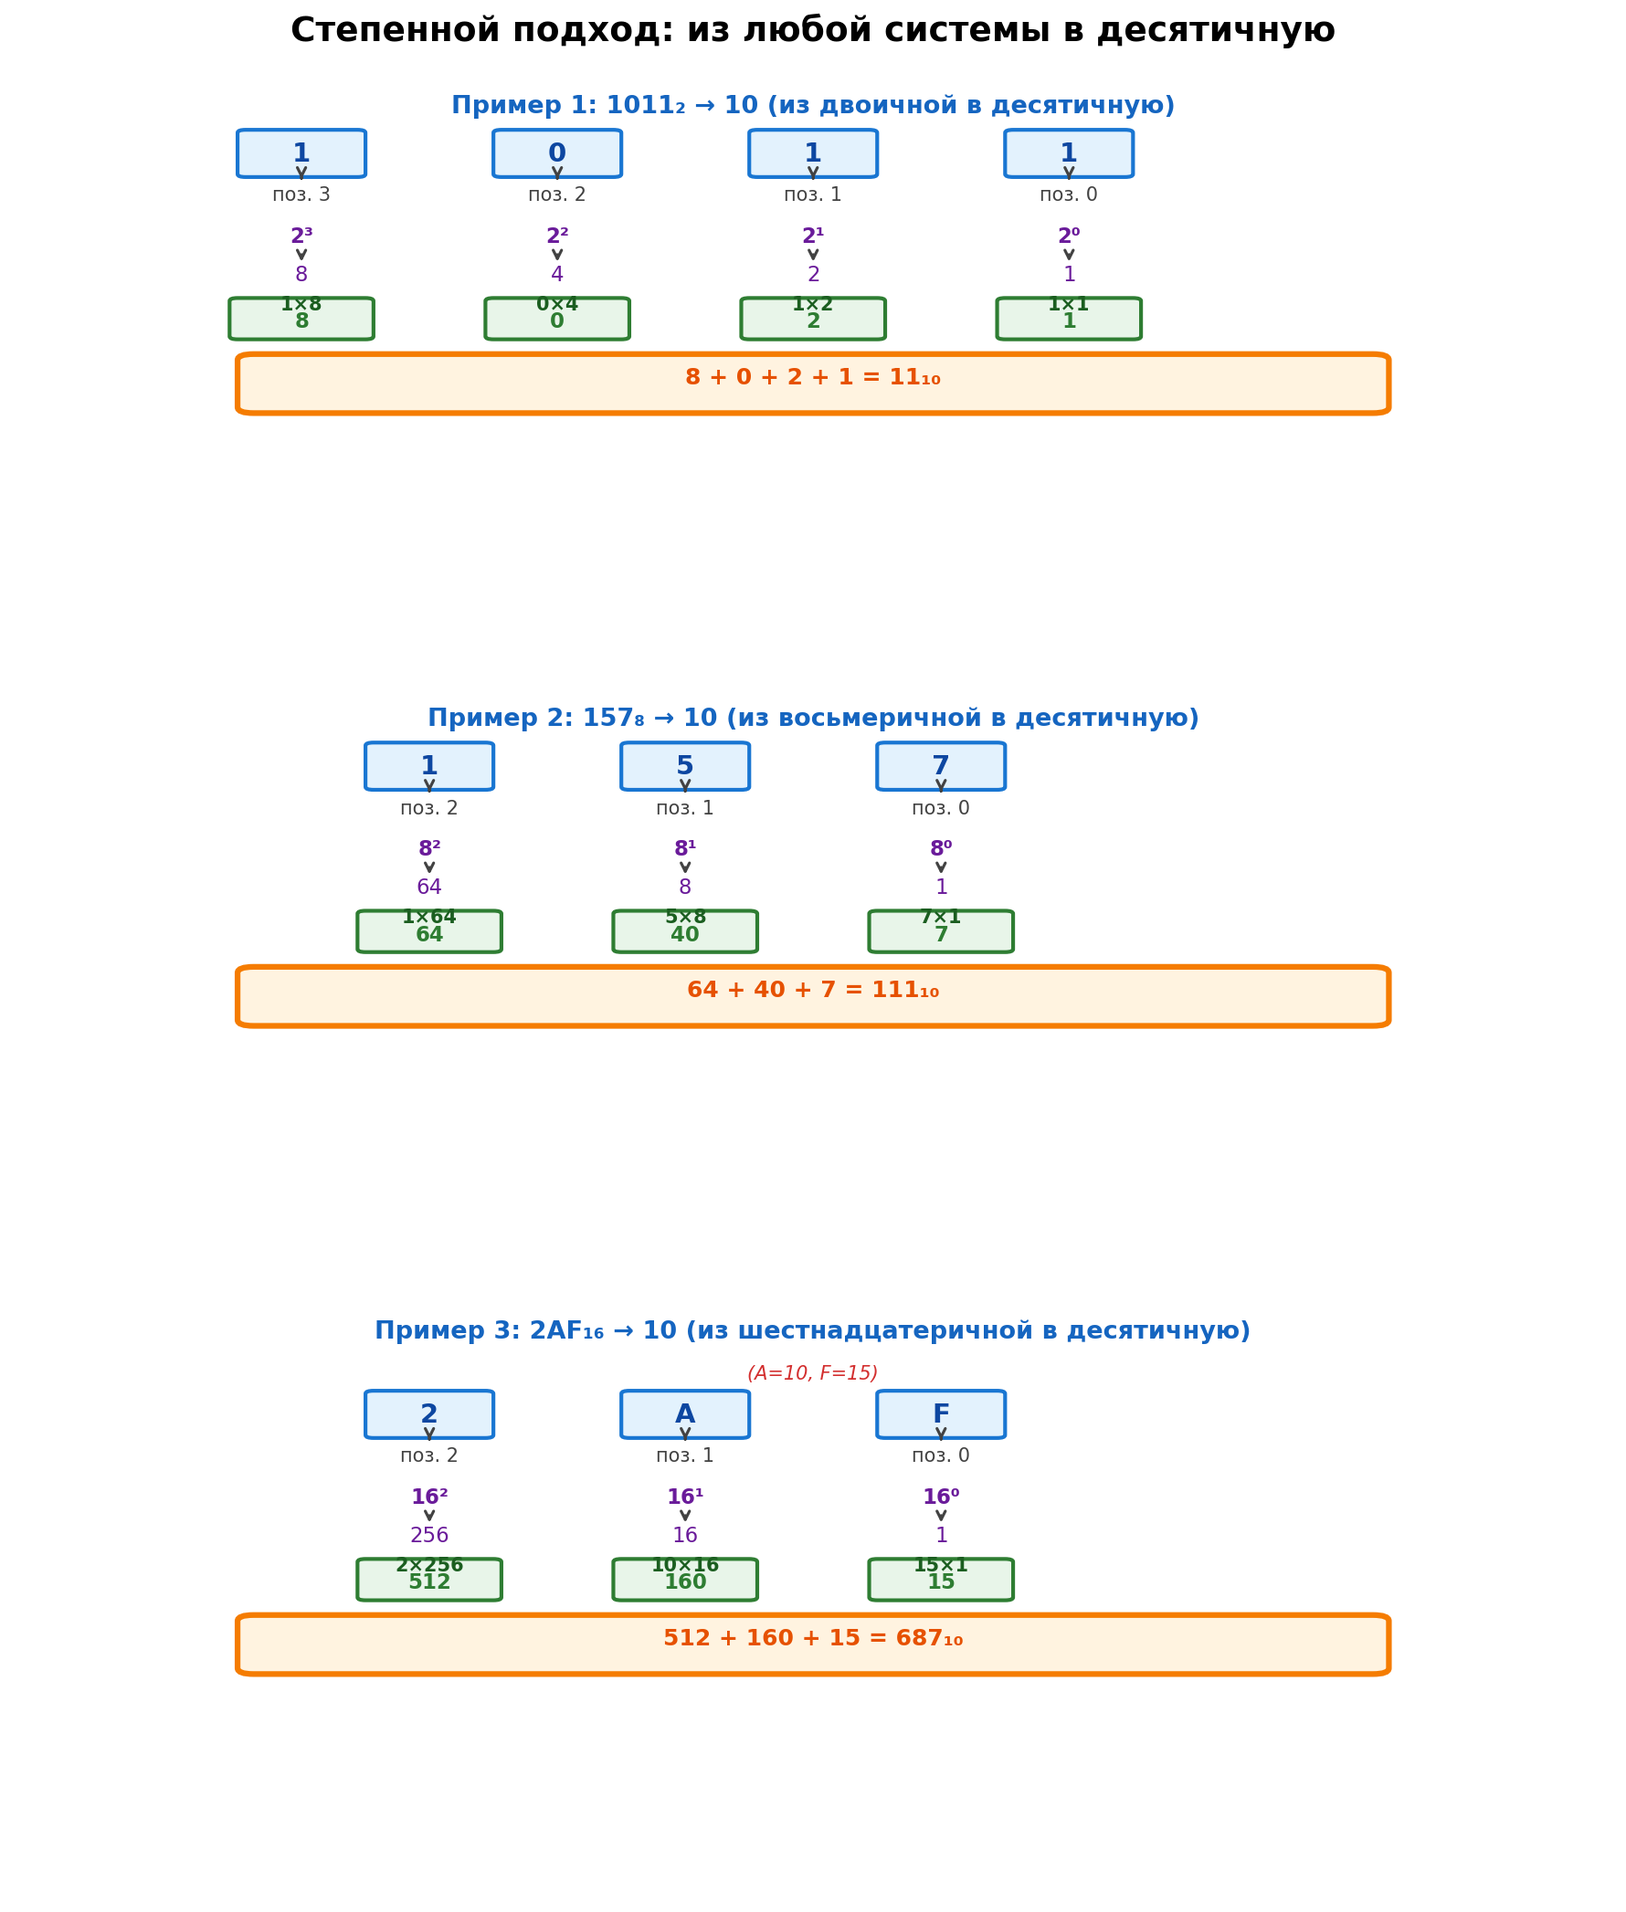
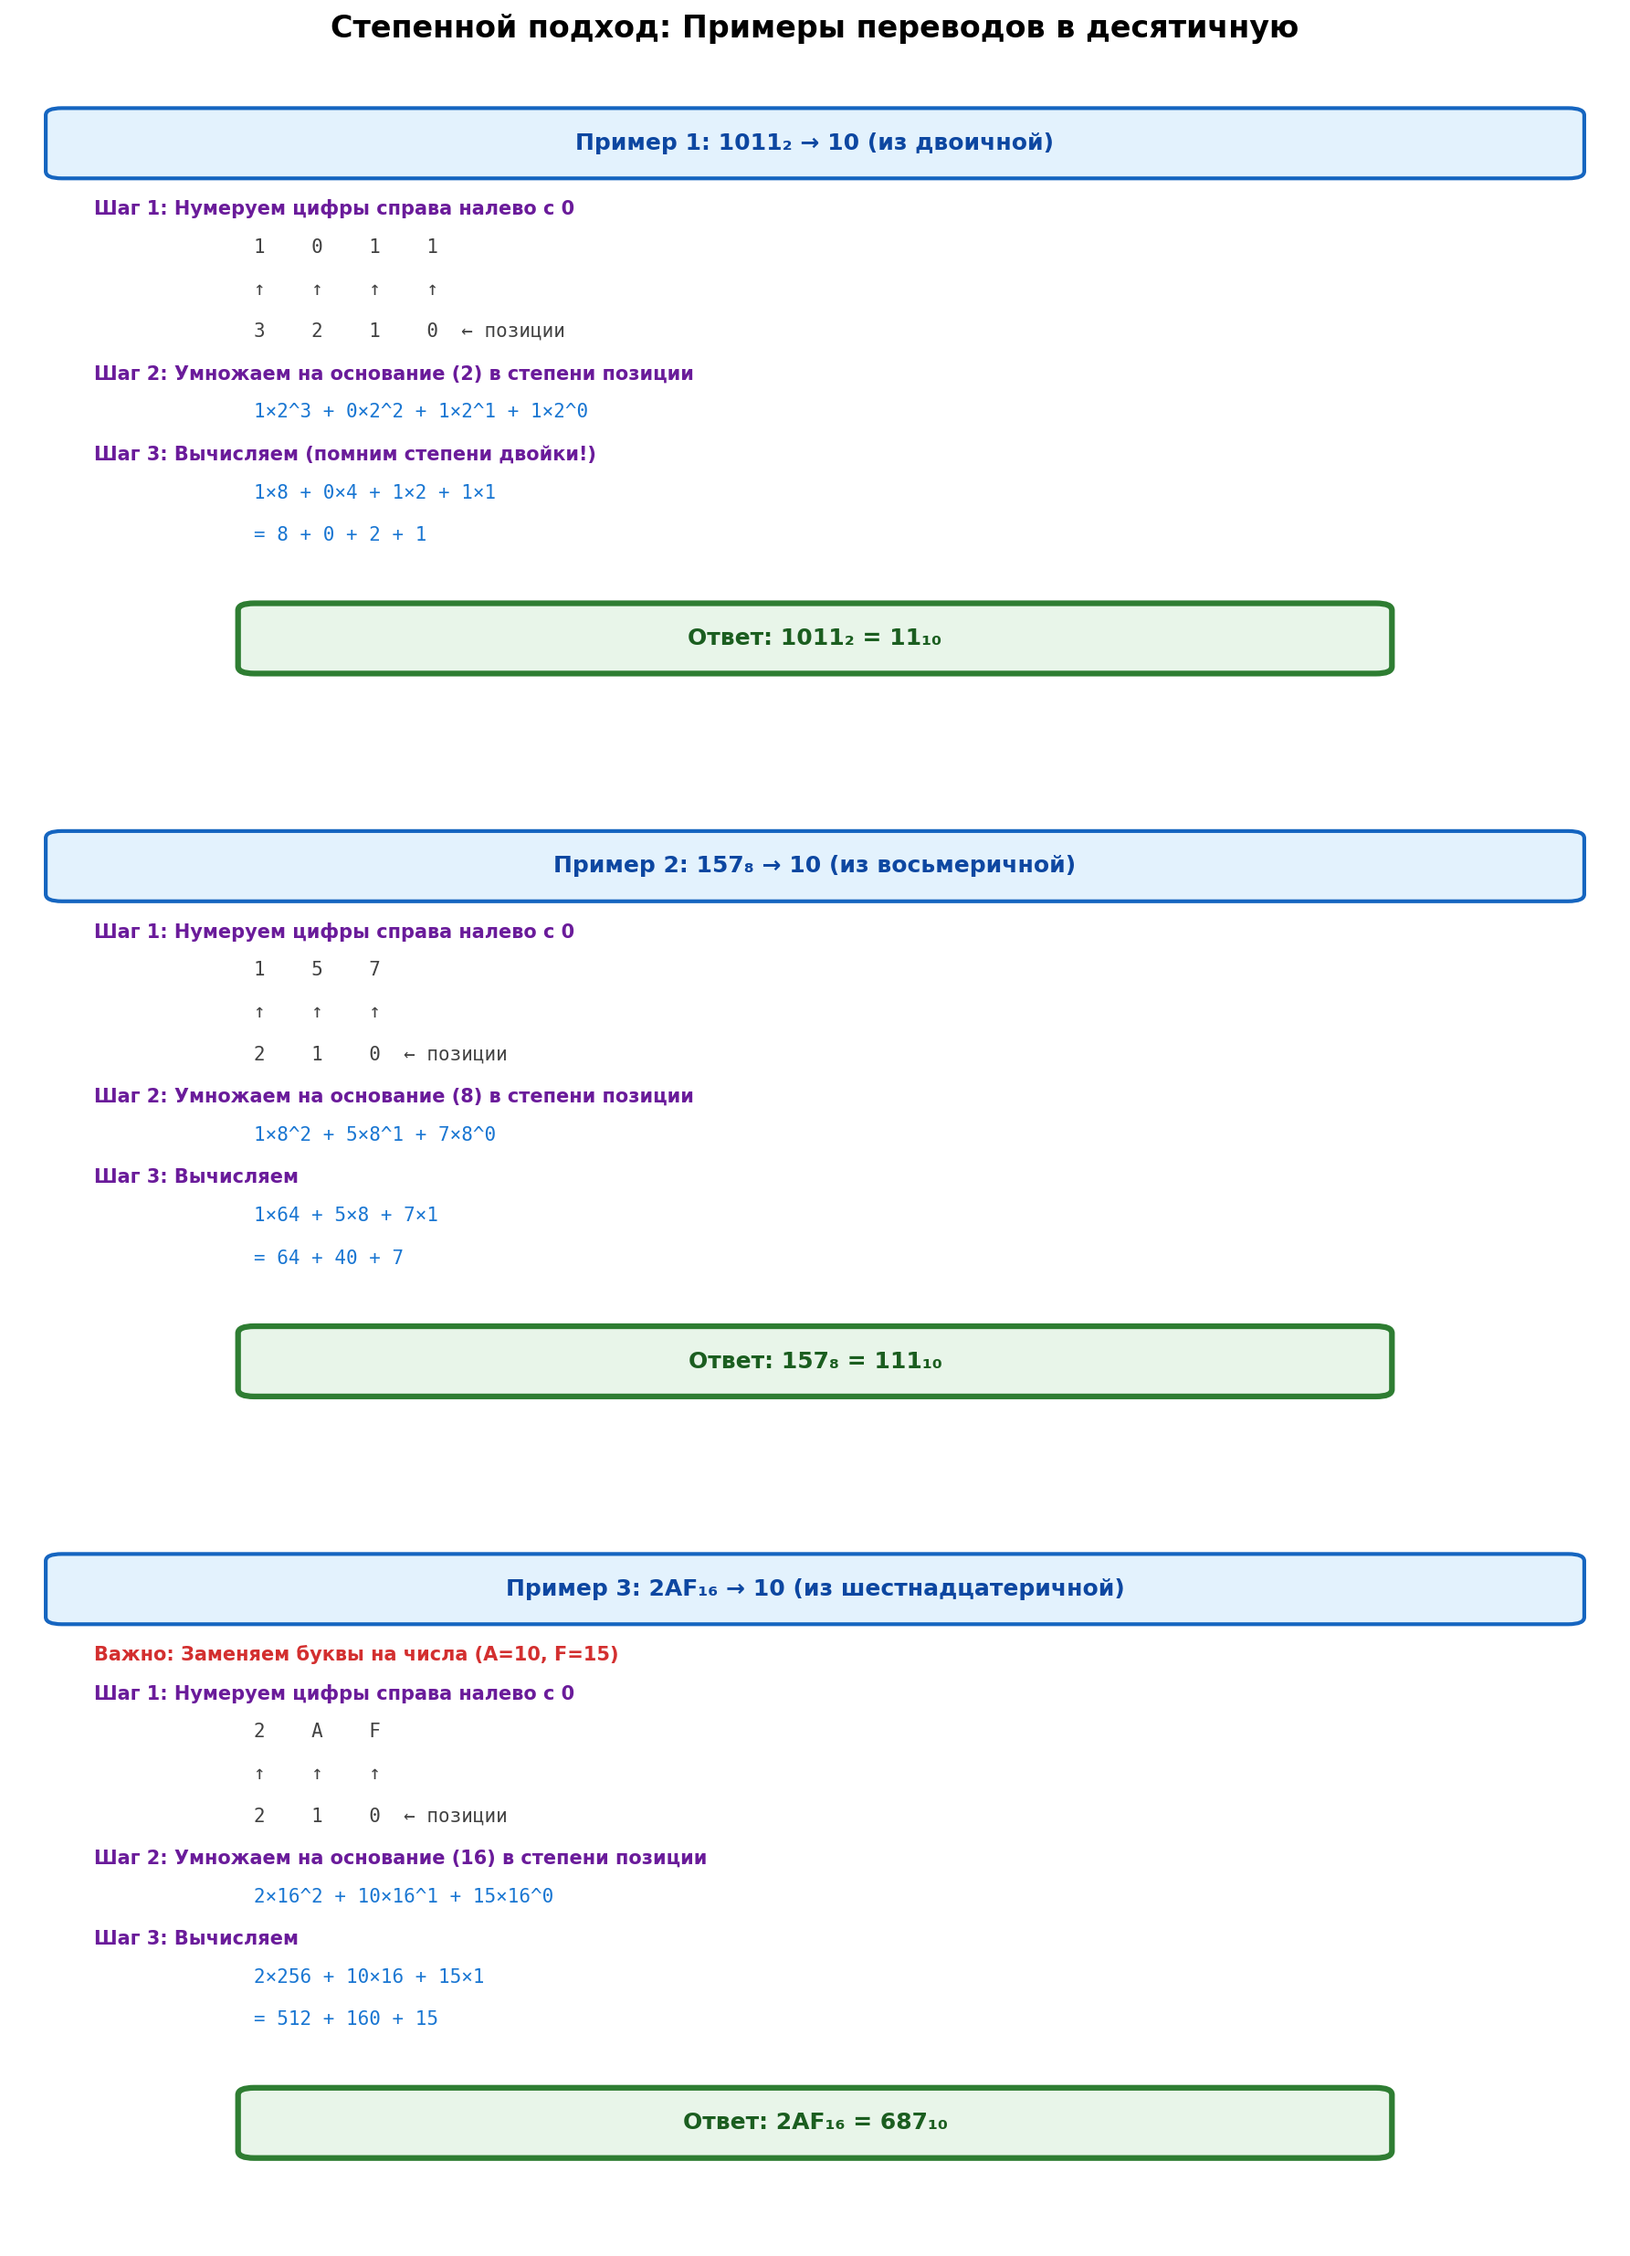
фикс визуалов, важные уточнения

diff --git a/системы_счисления.md b/системы_счисления.md
@@ -89,6 +89,8 @@ A = 10    B = 11    C = 12    D = 13    E = 14    F = 15
 
 ## Методы перевода чисел
 
+> **⭐ Важное замечание:** Если вы освоите "лайфхаки" (быстрые методы), вам практически никогда не придётся использовать самый трудоёмкий метод — "Деление с остатком". Старайтесь всегда искать более простой путь!
+
 ### Метод 1: Степенной подход
 **Направление:** Из любой системы → в десятичную (2→10, 8→10, 16→10)
 
@@ -608,6 +610,19 @@ $$N_{10} = a_{n-1} \cdot p^{n-1} + a_{n-2} \cdot p^{n-2} + \ldots + a_1 \cdot p^
 3. Берём **целую часть** результата и повторяем шаг 1
 4. Продолжаем, пока целая часть не станет равна 0
 5. Записываем остатки **в обратном порядке** (снизу вверх)
+
+#### ⭐ Ключевые наблюдения:
+
+1.  **Остаток не превышает основание:**
+    - При делении на число `N` остаток **никогда** не может быть больше или равен `N`.
+    - Это значит, что остаток всегда будет **не больше чем основание системы минус единица**.
+    - *Пример: при делении на 8 остатки могут быть только 0, 1, 2, 3, 4, 5, 6, 7.*
+
+2.  **Простота перевода в двоичную систему:**
+    - Из-за этого правила перевод из 10-й в 2-ю систему становится очень простым.
+    - При делении на 2 остаток может быть либо **0** (если число чётное), либо **1** (если нечётное).
+    - Вам не нужно ничего считать — просто смотрите, есть остаток или нет. Если есть — это 1, если нет — это 0.
+    - В других системах (например, в 8-ричной или 16-ричной) приходится вычислять точное значение остатка, что сложнее.
 
 #### ⚠ Важно:
 - Остатки читаются **СНИЗУ ВВЕРХ** (от последнего к первому)
